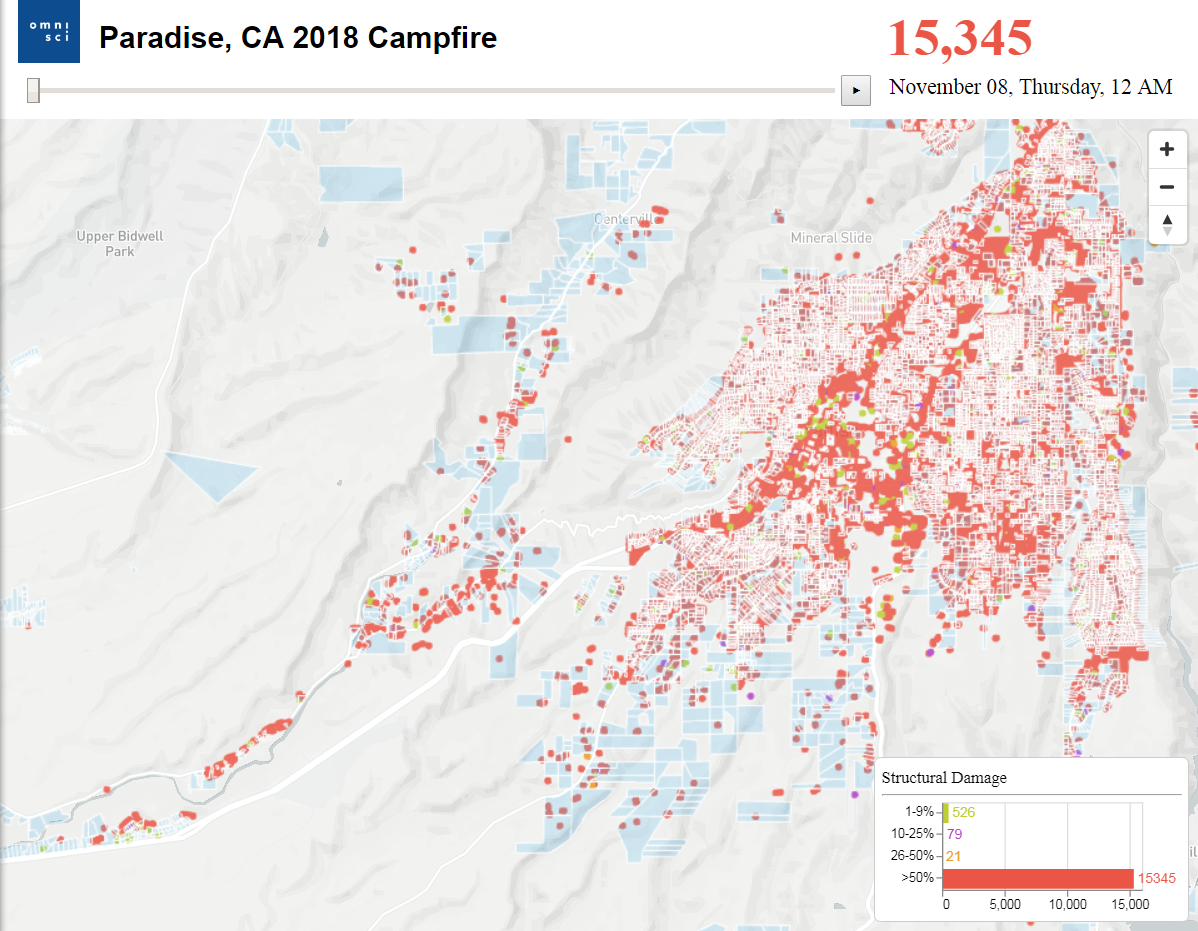
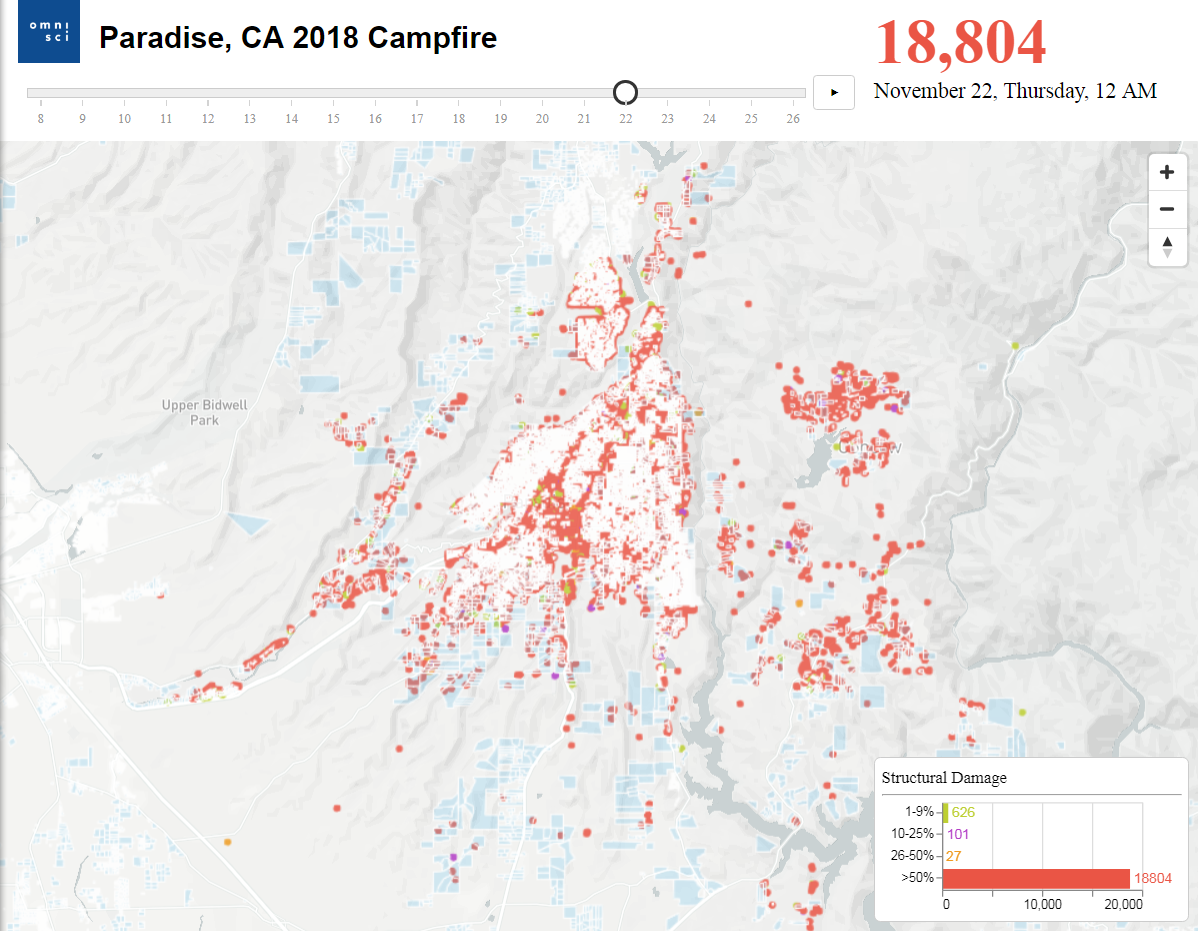
added custom day ticks for the time playback slider

diff --git a/src/styles.css b/src/styles.css
@@ -20,7 +20,7 @@ body {
   font: 12px/20px 'Helvetica Neue', Arial, Helvetica, sans-serif;
   display: flex;
   padding: 0px;
-  padding-right: 260px;
+  margin-right: 260px;
 }
 
 .logo {
@@ -43,7 +43,7 @@ body {
 
 /* counter-box styles */
 .counter-box {
-  width: 230px;
+  width: 240px;
   position: absolute;
   top: 5px;
   right: 20px;
@@ -51,9 +51,14 @@ body {
 }
 
 .counter-label {
-  font-size: 32pt;
+  font-size: 38pt;
   font-weight: bold;
   color: rgba(234,85,69,1);
+}
+
+.time-label {
+  margin-top: 5px;
+  font-size: 13pt;
 }
 
 /* time-controls styles */
@@ -62,7 +67,8 @@ body {
   align-items: flex-start;
   vertical-align: middle;
   padding-left: 20px;
-  padding-bottom: 10px;
+  margin-right: 260px;
+  margin-bottom: 25px;
 }
 
 .time-slider {
@@ -80,10 +86,26 @@ body {
   cursor: pointer;
 }
 
-.time-label {
-  margin-top: 5px;
-  width: 360px;
-  font-size: 13pt;
+.time-ticks {
+  position: absolute;
+  top: 80px;
+  left: 33px;
+  width: calc(100% - 357px);
+  display: flex;
+  justify-content: space-between;
+}
+
+.time-ticks p {
+  position: relative;
+  display: flex;
+  justify-content: center;
+  text-align: center;
+  width: 1px;
+  background: #D3D3D3;
+  height: 5px;
+  line-height: 30px;
+  margin: 0 0 20px 0;
+  font-size: 8pt;
 }
 
 /* content styles */

diff --git a/src/index.js b/src/index.js
@@ -30,11 +30,16 @@ function main() {
     </div>
     <div class="counter-box">
       <label class="counter-label"></label>
+      <br />
+      <label class="time-label"></label>
+    </div>
+    <div class="time-ticks">
+      <p>8</p><p>9</p><p>10</p><p>11</p><p>12</p><p>13</p><p>14</p><p>15</p><p>16</p>
+      <p>17</p><p>18</p><p>19</p><p>20</p><p>21</p><p>22</p><p>23</p><p>24</p><p>25</p><p>26</p>
     </div>
     <div class="time-controls">
       <input class="time-slider" type="range" min="0" max="18" step="1" value="0" />
       <button class="play-pause-button">&#9654;</button><!-- play -->
-      <label class="time-label"></label>
     </div>
     <div id="content">
       <div id="map"></div>
